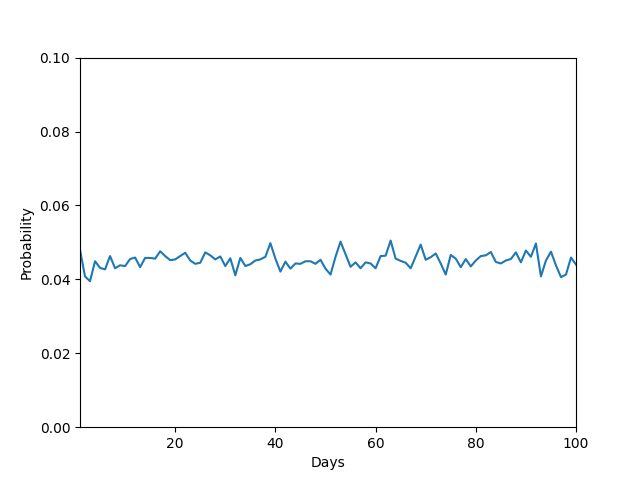
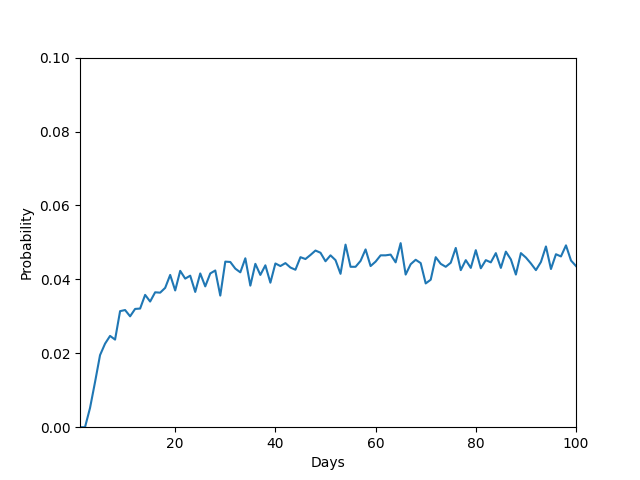
Fixed varying days code

Changed region(s): [[0.125, 0.5, 0.9062, 0.6562], [0.125, 0.75, 0.1562, 0.875], [0.1562, 0.6562, 0.1875, 0.75]]

diff --git a/mos_100d.py b/mos_100d.py
@@ -42,7 +42,7 @@ for j in range(1,d+1):
                 break
             
             # End condition
-            if (current_depth == d):
+            if (current_depth == j):
                 break
             
             # Increase depth
